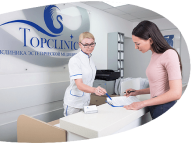
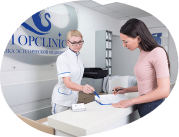
Add section About on Index

diff --git a/source/parts/main-index.html b/source/parts/main-index.html
@@ -1,4 +1,4 @@
-<main class="page__main main--index">
+<main class="page__main main main--index">
   <div class="container">
     <h1 class="visually-hidden">Пластический хирург Сысоев Алег Евгеньевич.</h1>
     <section class="about">
@@ -13,8 +13,8 @@
           <img class="about__image" src="img/about-1-mobile.png" srcset="img/about-1-mobile.png@2x 2x" alt="Фотография доктора Сысоева">
         </picture>
         <p class="about__text">
-          <b class="about__text-lead">Внимательный к&nbsp;пациентам
-            <br>
+          <b class="about__text-lead">Внимательный к&nbsp;пациентам&ensp;
+            <br class="about__mobile-break">
             <span class="about__text-accent">доктор</span>,
           </b>
           <span class="about__text-description">
@@ -24,27 +24,27 @@
           </span>
         </p>
       </div>
-      <div class="about__wrapper">
+      <div class="about__wrapper about__wrapper--flow-reverse">
         <picture>
           <source media="(min-width: 900px)" type="image/webp" srcset="img/about-2-tablet.webp 1x, img/about-2-tablet@2x.webp 2x">
           <source media="(min-width: 900px)" srcset="img/about-2-tablet.png 1x, img/about-2-tablet@2x.png 2x">
           <source type="image/webp" srcset="img/about-2-mobile.webp 1x, img/about-2-mobile@2x.webp 2x">
-          <img class="about__image about__image--out-of-view" src="img/about-2-mobile.png" srcset="img/about-2-mobile@2x.png 2x" alt="Стойка информации Topclinic с логотипом на стене">
+          <img class="about__image about__image--out-of-view about__image--large" src="img/about-2-mobile.png" srcset="img/about-2-mobile@2x.png 2x" alt="Стойка информации Topclinic с логотипом на стене">
         </picture>
-        <p class="about__text">
-          <b class="about__text-lead about__text-lead--padding-sm">работающий
+        <p class="about__text about__text--padding-top">
+          <b class="about__text-lead">работающий
             <nobr>в
               <span class="about__text-accent">современной</span>
             </nobr>
             <span class="about__text-accent">клинике</span>,
           </b>
-          <span class="about__text-description">Topclinic оснащена в&nbsp;соответствии с&nbsp;самыми высокими медицинскими стандартами, имет полный спектр специалистови находится в&nbsp;самом сердце Москвы.</span>
+          <span class="about__text-description">Topclinic оснащена в&nbsp;соответствии с&nbsp;самыми высокими медицинскими стандартами, имет полный спектр специалистов и&nbsp;находится в&nbsp;самом сердце Москвы.</span>
         </p>
       </div>
-      <div class="about__wrapper">
+      <div class="about__wrapper about__wrapper--no-image">
         <p class="about__text">
-          <b class="about__text-lead about__text-lead--no-image">способен достичь
-            <span class="about__text-accent">превосходных результатов</span>.
+          <b class="about__text-lead">способен достичь
+            <span class="about__text-accent">превосходных&nbsp;результатов</span>.
           </b>
           <span class="about__text-description">Более 300 счастливых пациентов, 2000 проведеных операций и&nbsp;десятки тысяч часов обучения и&nbsp;тренировок.</span>
         </p>

diff --git a/source/sass/blocks/main.scss b/source/sass/blocks/main.scss
@@ -9,7 +9,6 @@
 
 .about__wrapper {
   position: relative;
-  min-height: 142px;
   margin-bottom: 60px;
 
   &:last-child {
@@ -29,27 +28,17 @@
 }
 
 .about__text {
+  display: grid;
+  grid-template-rows: 142px auto;
+  row-gap: 20px;
+  align-items: center;
   margin: 0;
 }
 
 .about__text-lead {
-  display: block;
-  min-height: 140px;
-  margin-bottom: 20px;
-  padding-top: 40px;
   padding-left: 145px;
   font-size: 18px;
   line-height: 25px;
-
-  &--padding-sm {
-    padding-top: 30px;
-  }
-
-  &--no-image {
-    min-height: auto;
-    margin-bottom: 10px;
-    padding: 0;
-  }
 }
 
 .about__text-accent {
@@ -61,5 +50,150 @@
   font-size: 16px;
 }
 
+.about__wrapper--no-image {
+  .about__text {
+    display: block;
+  }
+
+  .about__text-lead {
+    display: block;
+    margin-bottom: 20px;
+    padding-left: 0;
+  }
+}
+
 @media (min-width: $tablet-width) {
+  .about {
+    display: grid;
+    grid-template-rows:
+      [first-line-start]
+      311px
+      [second-line-start]
+      93px
+      [first-line-end]
+      327px
+      [second-line-end third-line-start]
+      300px
+      [third-line-end]
+      300px
+      [end];
+    padding-top: 130px;
+  }
+
+  .about__wrapper {
+    grid-column: 1 / -1;
+
+    display: flex;
+    justify-content: space-between;
+    align-items: center;
+    margin-bottom: 0;
+
+    &--flow-reverse {
+      flex-direction: row-reverse;
+    }
+
+    &:first-of-type {
+      grid-row: first-line-start/first-line-end;
+    }
+
+    &:nth-of-type(2) {
+      grid-row: second-line-start/second-line-end;
+    }
+
+    &:nth-of-type(3) {
+      grid-row: third-line-start/third-line-end;
+    }
+  }
+
+  .about__image {
+    position: static;
+    height: 404px;
+
+    &--large {
+      height: 420px;
+    }
+
+    &--out-of-view {
+      position: absolute;
+      top: 0;
+      left: calc(50% + 30px);
+    }
+  }
+
+  .about__text {
+    flex: 0 0 calc(50% + 10px);
+    display: block;
+
+    &--padding-top {
+      padding-top: 45px;
+    }
+  }
+
+  .about__text-lead {
+    display: block;
+    margin-bottom: 15px;
+    padding-left: 0;
+    font-size: 26px;
+    line-height: 28px;
+  }
+
+  .about__mobile-break {
+    display: none;
+  }
+
+  .about__wrapper--no-image {
+    margin-right: auto;
+    margin-left: auto;
+    text-align: center;
+    justify-content: center;
+
+    .about__text {
+      flex: 0 0 680px;
+    }
+
+    .about__text-lead {
+      margin-bottom: 15px;
+    }
+
+    .about__text-description {
+      padding-right: 50px;
+      padding-left: 50px;
+    }
+  }
+}
+
+@media (min-width: $desktop-width) {
+  .about {
+    grid-template-rows:
+      [first-line-start]
+      376px
+      [second-line-start]
+      85px
+      [first-line-end]
+      335px
+      [second-line-end third-line-start]
+      300px
+      [third-line-end]
+      300px
+      [end];
+    padding-top: 50px;
+  }
+
+  .about__image {
+    height: 461px;
+    padding-left: 32px;
+
+    &--out-of-view {
+      height: 420px;
+      padding-left: 0;
+    }
+  }
+
+  .about__text-lead {
+    font-size: 28px;
+  }
+
+  .about__text-description {
+    font-size: 17px;
+  }
 }

diff --git a/source/sass/blocks/page.scss b/source/sass/blocks/page.scss
@@ -14,17 +14,45 @@
 
 @media (min-width: $tablet-width) {
   .page__body--index {
-    background-repeat:
-      no-repeat,
-      no-repeat;
-    background-position:
-      top 480px left calc(50% - 115px),
-      top 545px left calc(50% + 950px);
-    background-size:
-      1523px,
-      945px;
-    background-image:
-      url("../img/main-index-background.svg"),
-      url("../img/main-index-background-tail.svg");
+    position: relative;
+
+    &::before,
+    &::after {
+      content: "";
+      position: absolute;
+      top: 0;
+      right: 0;
+      bottom: 0;
+      left: 0;
+    }
+
+    &::before {
+      background-repeat: no-repeat;
+      background-position: top 480px left calc(50% - 115px);
+      background-size: 1523px;
+      background-image: url("../img/main-index-background-gradient.svg");
+    }
+
+    &::after {
+      background-repeat:
+        no-repeat,
+        no-repeat;
+      background-position:
+        top 480px left calc(50% - 115px),
+        top 545px left calc(50% + 950px);
+      background-size:
+        1523px,
+        945px;
+      background-image:
+        url("../img/main-index-background-line.svg"),
+        url("../img/main-index-background-tail.svg");
+      pointer-events: none;
+    }
+
+    .page__header,
+    .page__footer {
+      position: relative;
+      z-index: 1;
+    }
   }
 }

diff --git a/source/js/main.js b/source/js/main.js
@@ -2,7 +2,10 @@
 
 const navWrapper = document.querySelector('.header__nav-wrapper');
 const navToggle = navWrapper.querySelector('.header__nav-toggle');
-const navUnderlay = navWrapper.querySelector('.header__nav-underlay');
+
+const navUnderlay = document.createElement('div');
+navUnderlay.classList.add('header__nav-underlay');
+navWrapper.prepend(navUnderlay);
 
 const toggleMenu = (evt) => {
   evt.preventDefault();

diff --git a/source/parts/header-index.html b/source/parts/header-index.html
@@ -7,7 +7,6 @@
         <span class="logo__text">пластический хирург</span>
       </a>
       <div class="header__nav-wrapper header__nav-wrapper--no-js">
-        <div class="header__nav-underlay"></div>
         <nav class="header__nav">
           <button class="header__nav-toggle" aria-controls="header__nav-list" aria-expanded="false">
             <span class="visually-hidden">Меню</span>

diff --git a/source/parts/header.html b/source/parts/header.html
@@ -7,7 +7,6 @@
         <span class="logo__text">пластический хирург</span>
       </a>
       <div class="header__nav-wrapper header__nav-wrapper--no-js">
-        <div class="header__nav-underlay"></div>
         <nav class="header__nav">
           <button class="header__nav-toggle" aria-controls="header__nav-list" aria-expanded="false">
             <span class="visually-hidden">Меню</span>
